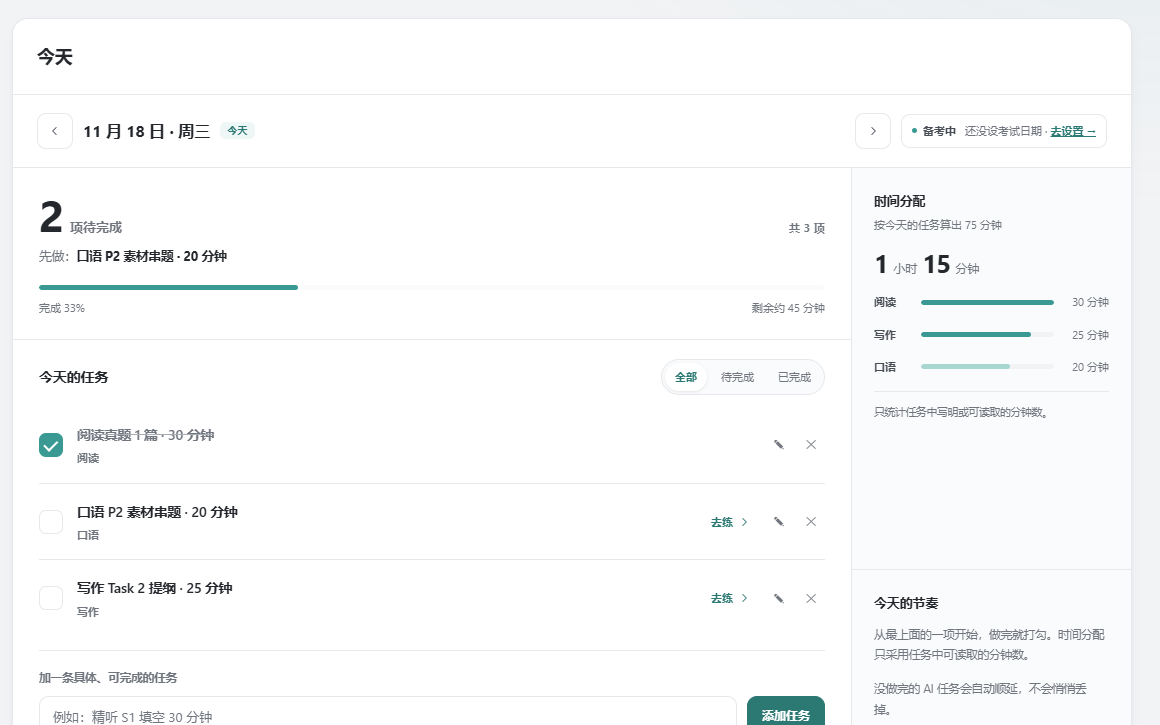
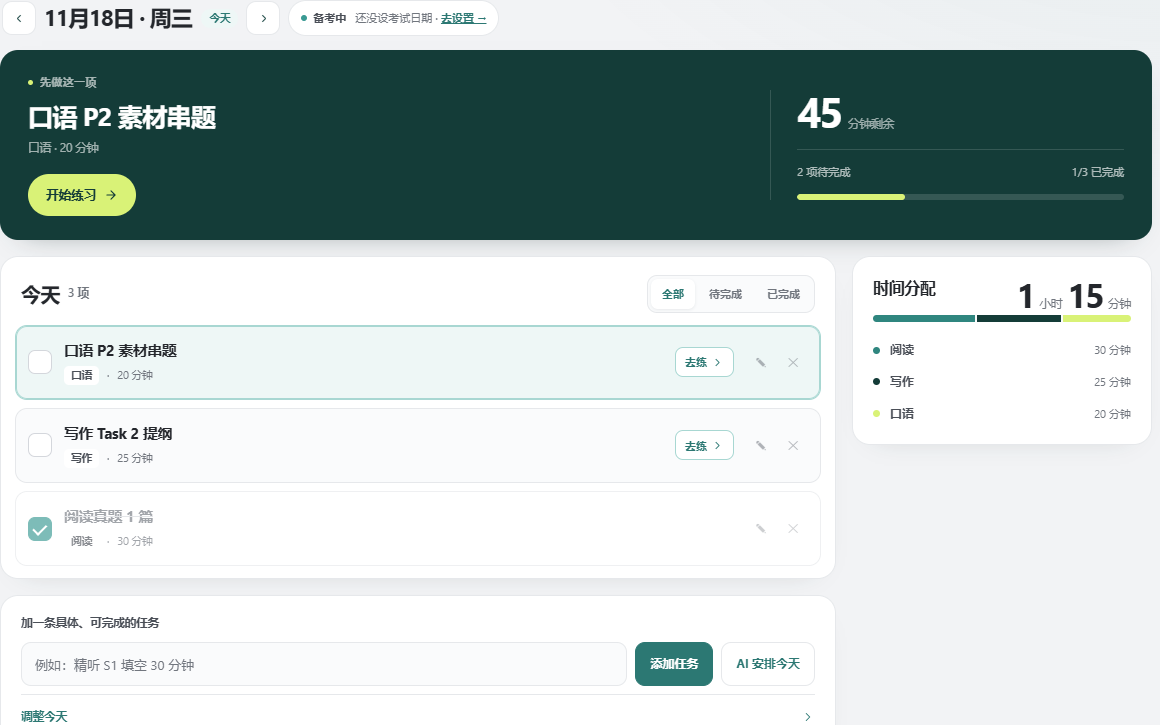
chore(landing): refresh today-plan screenshot and bump cache to v928

diff --git a/sw.js b/sw.js
@@ -1,3 +1,4 @@
+/* 11-18 v928 = LANDING-C-1118D：落地页「今日计划」产品图换成计划页新版真实截图（1160×725，去掉全站侧栏与顶栏），四张图统一 ?v=928；页面结构不动。 */
 /* 11-18 v927 = PLAN-REDESIGN-1118：计划/今天页按新设计稿施工（深绿主卡、待办前置、堆叠时间条、任务行卡化）；其它页面和数据结构不动。 */
 /* 11-18 v926 = LANDING-C-1118C：四张产品截图按 16:10 重裁（1160×725 / 1440×900），去掉固定高度 + cover 裁剪和截图卡顶部假窗口条；展示框跟随原图比例，宽屏与手机不再裁掉内容。 */
 /* 11-18 v925 = LANDING-C-1118B：首屏后的「先别注册，点一题试试」语法题含金量不足，整段删除；首屏副 CTA 改为「看看怎么练 ↓」指向 #today；同步清掉 try/quiz 样式与脚本，页面收为六段。 */
@@ -74,7 +75,7 @@
 // bank.js → 20261012ac（仅 bank.html）。上一版 v409。
 // 注记：当前 CACHE v922 除设置页侧栏外，还含 11-16 AI-QUOTA-3（会员重活逐项 5 次、模考周 10 场、7 天卡 1/4）。
 // 11-16 v884 = BANK-V2：机经五格侧栏（阅读 / 听力 / 记录 / 错题 / 统计），听力中英双行、阅读源数据暂无中文先英文单行、整套收页首、目录扁平化、记录与统计重做空态和数据态、错题本轮只出「即将上线」罩衫、页底「机经是什么？」弹窗；判分与考场零改动。
-const CACHE = 'ielts-hub-v927';  // 11-18 v927 = PLAN-REDESIGN-1118：计划/今天页按新设计稿施工；上一版 v926 修落地页产品截图比例。
+const CACHE = 'ielts-hub-v928';  // 11-18 v928 = 落地页今日计划图换新版真实截图；上一版 v927 施工计划页。
 const _prevCacheNote187 = 'ielts-hub-v871'; // 11-13 v872 = QUOTA-SELFHEAL-1 iPhone Safari 本地存储写不进自救（她 11-13 截图报「保存失败：本地存储空间已满（iPhone Safari 上限约 5MB），自动清理后仍放不下，请在设置导出备份并截图反馈」，原话「这个解决一下」）。根因＝js/data.js hubSave() 把整个 DATA 写单个 HUB_KEY，超 iPhone Safari ~5MB（UTF-16）配额抛 QuotaExceededError，旧兜底只 trimDictationDupes() 一种日志去重，清不动就 alert 挡整页 + 让用户导出备份/截图，且 __hubSaveAlerted 让本会话之后静默失败＝数据其实没存上还不知道。修法全部收在 hubSave/hubLoad 两个既有函数＋5 个新小工具，零 DOM/UI/用户数据删除、不改 DATA 结构、不引入同步读改造：① 保留默写日志去重；② 新增 shedLocalCacheKeys() 按白名单前缀精准清 origin 内纯缓存/草稿键（做题草稿 hub_bank_draft_/full_draft/last_、音量 vol、分栏比例、公告缓存、角色缓存、active），绝不 clear()、绝不碰 HUB_KEY/CREDS_KEY/hub_onboarding_v2/hub_auth_token/hub_device_id/hub_vip_flag_v1，每级清理后重试写盘；③ 仍放不下则 hubOffloadSave() 异步把主 blob 兜底写 IndexedDB（ielts_hub_offload/kv/main）+ 置极小标记，数据仍由 hubSave 末尾既有 scheduleCloudUpload() 上行，不丢；④ alert 换 hubQuotaNotice()＝非阻塞 toast（common.js 提供，缺失降 console.warn）+ 60s 防抖，不再让人干活；⑤ hubLoad 在主 blob 缺失且有标记时 hubOffloadLoad() 异步补回并 dispatch hub:data-merged 触发重渲。参考成熟口径：超限精准清理重试、禁 clear 误删凭证、大体积兜底 IndexedDB（bugnet.io / tutorials.dodatech.com / php.cn）。改 js/data.js 本体＝全站共享，按项目铁律 22 个根 HTML 的 js/data.js?v=20261030a→20261113d 整组同 bump；SW 预缓存裸路径 /js/data.js 不动。本地探针 tests/_probe_quota_fix_1113.cjs 全绿（正常保存走 localStorage / mock setItem 对 HUB_KEY 抛 QuotaExceededError 时触发日志去重＋缓存键清理＋IndexedDB 兜底＋不 alert＋云同步仍调用 / 白名单保护键一个没删 / offload 往返读回 / 22 页串 / node --check / 零双 CR）。发布按 11-09：一个改动一提交、自验全绿直接合 main 上线。
 const _prevCacheNote186 = 'ielts-hub-v870'; // 11-13 v871 = MAT-PROMPT-GENERIC 串题素材总纲重写（她 11-13 原话「我叫你调整串题 Promote……万一其他用户也要导入这样的你总不能帮他也重新做另一段话吧」「Promote 不要强制限定词数和故事个数，我要的就是把能重复利用的故事整合在一起就行了，尽可能少的故事串所有题目」）：「AI 整理成万能素材 / 导入整理」那条提示词 SYS_MAT 只认「一段段生活经历」、还硬卡 2~4 个故事 / 130~180 词 / 190 硬顶 / 3 句万能句 / 5~7 句骨架，用户粘「固定句式＋万能素材＋{ } 换词＋中文逻辑链＋铁律」的结构化背诵卡时套不进去、整理不出来。这次把总纲改成通用版：① 按语义识别两类输入（生活经历 / 结构化背诵卡，各用户措辞不同都认），可混用；② **不限制词数、句子长短、故事 / 卡片个数、万能句与骨架句数、不设字数硬顶**，一切以「能重复利用、尽可能少的故事串住尽可能多的题」为准；③ 结构化卡里的英文原句（含 { } 占位，里面可能是中文提示）一字不改照背、只替换 { } 里的词，不重组语序 / 不翻译 / 不续写，中文逻辑链与铁律进 logicZh / note 遵守；④ coverage 仍宁多勿漏、topic 仍逐字取当季题库清单（前端 normalizeMaterial 依赖），JSON schema 一字不变 → 前端零改动；⑤ importNote / user 尾句同步去掉「规则 5.2 / 连贯大故事 / 按段拆卡」等与照背冲突的旧措辞，storyEn 中文污染自愈也加了花括号占位保护，不会把 { } 里的中文提示改坏。零 DOM / id / 数据 / 判分 / 云同步 / 输入框 / AI 纠正改动；改 materials.js 本体 → materials.html 与 speaking.html 的 js/materials.js?v=20261102d→20261113c 两处同 bump；同笔把 js/sp-story.js 的串题规划 / 成稿提示词也加同一套通用兼容（{ } 占位与照背铁律的固定原句逐字沿用、不强制 110~150 词），speaking.html 的 js/sp-story.js?v=20261023a→20261113c；SW 预缓存清单（裸路径 /js/materials.js / /js/sp-story.js）不动。本地探针 tests/_probe_prompt_v3_1113.cjs 全绿（静态总纲无数字硬限 + 通用识别 + 照背 + schema 仍在；Playwright 实开 materials.html 拦截 callRelay 捕获真实 system/user 提示词核对；零 pageerror）。发布按 11-09：一个改动一提交、自验全绿直接合 main 上线。
 const _prevCacheNote185 = 'ielts-hub-v869'; // 11-13 v870 = REVIEW-REDESIGN-3 回顾模块重新设计（她 11-13 点头「两个我觉得都可以……成绩趋势改成趋势……可以开始改了，给我还原度高一点，改完自己检查一下」第 2 笔）：侧栏 5 项收成 3 项「总览 / 趋势 / 记录」（成绩趋势按她要求改两字「趋势」、四科表现并入总览、学习投入降为默认折叠、考试记录改「记录」），与计划页重复的「今天」待办块收掉、只留「去计划页查看全部」轻链接。重要数据放大：最近一次总分 62px 等宽、四科 2×2 且弱科用 --warn-ink 状态条、一句「先补哪几科」行动带；不再单独展示重复 4 数卡 / 水平标尺 / 距目标分 / 未达标科数，趋势页 4 数卡收成 2 张；四科雷达、连胜 / 最长连续 / 日均 / 累计、12 周热力图、14 天柱状、表现统计与题型 Part 明细全部保留但收进两个默认折叠（reHomeFold / reRecFold），展开即用。实现口径＝零 DOM/id/数据落点/事件绑定删除：js/rv-tabs.js 只改 TABS、老 hash #rv=subjects/effort 落回总览、总览顺带渲染折叠内容；review.html 结构重排 + 页内 style#reRedesign3 高特异度重皮，rvx-data.js 现填的 rvx* id 与 data-rv2-add / rvxWeakGo 委托一个没动；空账号沿用笔8 B 卡，两个折叠在空态不冒出来。颜色全走站点 token 深浅两档、零写死主题色值；改了 js/rv-tabs.js 本体→review.html 引用串 20261109a→20261113b，其余 ?v= 与 SW 预缓存清单全不动。本地探针 tests/_probe_review_v3_1113.cjs 44/44 全绿（静态原文/有数据桌面 19/老 hash/空账号/深色/手机/切 tab/录入弹窗/折叠展开真内容/零 pageerror），改后四态实拍逐张看过、干净。发布按 11-09：一个改动一提交、做完自验直接合 main 上线。

diff --git a/index.html b/index.html
@@ -73,11 +73,11 @@
     <div class="workspace" id="workspace" aria-label="真实产品界面组合预览">
       <div class="desk">
         <div class="desk-bar"><span class="desk-dots"><i></i><i></i><i></i></span>YASIHUB / TODAY<span class="desk-status"><i></i>今天 1 / 3 已完成</span></div>
-        <img class="desk-img" src="img/landing/plans-demo.png?v=926" width="1160" height="725" alt="雅思备考 Hub 的今日计划真实界面，显示三项练习与完成进度" fetchpriority="high">
+        <img class="desk-img" src="img/landing/plans-demo.png?v=928" width="1160" height="725" alt="雅思备考 Hub 的今日计划真实界面，显示三项练习与完成进度" fetchpriority="high">
         <div class="desk-foot"><span>每日清单 · 做完打勾</span><span>界面演示数据</span></div>
       </div>
-      <div class="float-card float-speaking"><img src="img/landing/speaking-materials.png?v=926" width="1160" height="725" alt="口语素材界面局部"><div class="float-body"><div class="float-kicker">SPEAKING P2</div><div class="float-title">一段经历，<br>接住一组话题。</div></div></div>
-      <div class="float-card float-review"><img src="img/landing/review-demo.png?v=926" width="1160" height="725" alt="成绩趋势界面局部"><div class="float-body"><div class="float-kicker">PROGRESS</div><div class="float-title">练过，就留下趋势。</div></div></div>
+      <div class="float-card float-speaking"><img src="img/landing/speaking-materials.png?v=928" width="1160" height="725" alt="口语素材界面局部"><div class="float-body"><div class="float-kicker">SPEAKING P2</div><div class="float-title">一段经历，<br>接住一组话题。</div></div></div>
+      <div class="float-card float-review"><img src="img/landing/review-demo.png?v=928" width="1160" height="725" alt="成绩趋势界面局部"><div class="float-body"><div class="float-kicker">PROGRESS</div><div class="float-title">练过，就留下趋势。</div></div></div>
       <span class="vertical-note">YOUR IELTS STUDY DESK</span>
     </div>
   </div>
@@ -87,15 +87,15 @@
   <div class="wrap">
     <article class="feature reveal" id="today">
       <div class="feature-copy"><span class="feature-no">01 / TODAY</span><h2>今天该练什么，<br>不用临时起意。</h2><p>每天一份清单，每项写清练习内容和时长。从最上面一项开始，做完打勾；没做完的顺延，不会悄悄丢掉。</p><div class="feature-points"><span>每日清单</span><span>手动或 AI 安排</span><span>未完成自动顺延</span></div></div>
-      <div class="feature-visual"><div class="screen"><img src="img/landing/plans-demo.png?v=926" width="1160" height="725" alt="今日计划真实界面，展示阅读、口语和写作任务及时间分配" loading="lazy"><span class="screen-caption">真实页面 · 演示数据</span></div><i class="accent"></i></div>
+      <div class="feature-visual"><div class="screen"><img src="img/landing/plans-demo.png?v=928" width="1160" height="725" alt="今日计划真实界面，展示阅读、口语和写作任务及时间分配" loading="lazy"><span class="screen-caption">真实页面 · 演示数据</span></div><i class="accent"></i></div>
     </article>
     <article class="feature story-card reveal" id="story">
       <div class="feature-copy"><span class="feature-no">02 / SPEAKING</span><h2>52 道题，<br>不用写 52 篇素材。</h2><p>先把自己的经历整理成素材，再看同一段经历能接住哪些当季题。新题来了，不必从零开始背一篇。</p><div class="feature-points"><span>自己的经历</span><span>AI 对照题库</span><span>一段素材串多题</span></div></div>
-      <div class="feature-visual"><div class="screen"><img src="img/landing/speaking-materials.png?v=926" width="1160" height="725" alt="口语素材真实界面，说明用个人经历串起当季口语题" loading="lazy"><span class="screen-caption">真实页面</span></div><i class="accent"></i></div>
+      <div class="feature-visual"><div class="screen"><img src="img/landing/speaking-materials.png?v=928" width="1160" height="725" alt="口语素材真实界面，说明用个人经历串起当季口语题" loading="lazy"><span class="screen-caption">真实页面</span></div><i class="accent"></i></div>
     </article>
     <article class="feature review-card reveal" id="review">
       <div class="feature-copy"><span class="feature-no">03 / PROGRESS</span><h2>练完有没有进步，<br>别凭感觉。</h2><p>模考成绩、四科分数和练习记录收在一处。最近一次考了多少、离目标还差多少、哪一科最弱，打开就知道。</p><div class="feature-points"><span>成绩趋势</span><span>四科弱项</span><span>多设备云同步</span></div></div>
-      <div class="feature-visual"><div class="screen"><img src="img/landing/review-demo.png?v=926" width="1160" height="725" alt="成绩回顾真实界面，展示四科成绩、目标差和上升趋势" loading="lazy"><span class="screen-caption">真实页面 · 演示数据</span></div><i class="accent"></i></div>
+      <div class="feature-visual"><div class="screen"><img src="img/landing/review-demo.png?v=928" width="1160" height="725" alt="成绩回顾真实界面，展示四科成绩、目标差和上升趋势" loading="lazy"><span class="screen-caption">真实页面 · 演示数据</span></div><i class="accent"></i></div>
     </article>
   </div>
 </section>
@@ -108,7 +108,7 @@
       <div class="number"><b>42</b><span>套写作模板</span><small>结构提示 · 骨架首句 · 填空练习</small></div>
     </div>
     <div class="exam-proof reveal">
-      <div class="screen"><img src="img/landing/exam-reading.png?v=926" width="1440" height="900" alt="阅读机考真实界面，左侧文章右侧题目，底部题号导航" loading="lazy"><span class="screen-caption">真实机考界面</span></div>
+      <div class="screen"><img src="img/landing/exam-reading.png?v=928" width="1440" height="900" alt="阅读机考真实界面，左侧文章右侧题目，底部题号导航" loading="lazy"><span class="screen-caption">真实机考界面</span></div>
       <div class="exam-list"><div class="exam-item"><b>左原文，右题目</b><p>在电脑上熟悉真正的做题节奏，而不是只刷手机选择题。</p></div><div class="exam-item"><b>交卷即出分</b><p>答案随题配置，练完不用另找答案册。</p></div><div class="exam-item"><b>成绩进回顾</b><p>做完的每一次，都能回到同一条学习轨迹里。</p></div></div>
     </div>
   </div>

diff --git a/tests/README.md b/tests/README.md
@@ -459,10 +459,12 @@
 - **11-18 追加 v925**：她上线后回看，认为首屏后的「先别注册，点一题试试」用 `would like to + 动词原形` 语法选择题，与整页专业度不匹配、没有展示产品价值。已**整段删除**该 section，不补新的假交互；首屏副 CTA 改为「看看怎么练 ↓」指向 `#today`；同步清掉 `try-*` / `quiz*` 样式和页尾答题脚本。页面收为六段 `hero,features,proof,more,free,final`；探针改为「零 try/quiz 残留 + 副 CTA 指 #today」，本机与线上各 24/0。提交 `35715dce`，SW `v925`。
 - **11-18 追加 v926**：她发现落地页所有产品图都有裁切问题——原图比例和固定展示框不一致，`object-fit:cover` 在不同宽度下把界面裁掉一块，机经卡顶部还多出一条假窗口空白。改法：三张有侧栏的截图按 16:10 重裁为 1160×725，机经图保持 1440×900；全部展示框改为跟随原图比例（`height:auto` + 显式宽高），删除固定高度、`cover` 与 `screen:before` 假窗口条。探针新增「全图按原比例、无 cover、截图贴齐卡片」断言，本机与线上各 24/0。提交 `62cde565`，SW `v926`。
 
-### 11-18 第十四段：计划 / 今天页按 PLAN-REDESIGN-1118 施工（SW v927）
+### 11-18 第十四段：计划 / 今天页按 PLAN-REDESIGN-1118 施工（SW v927 → v928）
 
 - **范围**：只改 `plans.html`、`css/p/plans.css`、`js/plans.js`，其它页面与数据流不动。日期条改成左日期右阶段胶囊；右栏原来的「概况数字」变成主栏顶部的深绿主卡（先做这一项 / 剩余分钟 / 完成度 / 真按钮）；任务卡与添加卡拆成两张；待办在前、已完成置底；时间分配改总时长 + 堆叠条 + 分科行；左栏重复的「今日任务」卡隐藏。
 - **数据口径**：主卡 45 分钟、2 项待完成、1/3、总时长 1 小时 15 分钟，全部按当天 `items` 的 `min` / 标题分钟真算；手写任务按标题关键词补科目（口语 / 写作 / 听力 / 阅读 / 背单词），识别不出就不硬塞。任务行与主卡标题只把末尾「N 分钟」移到副行，正文不改；不做假统计、不编覆盖率。
 - **验收**：`_probe_planredesign_1118.cjs` 36/0，覆盖 1440 / 390 / 360：主卡标题/副行/45 分钟/2 项待完成/1/3、任务计数 3 项、待办在前且第一项高亮、总时长 `1小时15分钟`、3 个分科行 + 3 段堆叠条、输入框宽度、无横溢、零 pageerror、零请求失败；`_probe_planredesign_actions_1118.cjs` 全过：勾选→主卡换下一项、取消勾选恢复、添加任务→4 行/1小时30分钟、筛选待完成 3 行、空日期收起主卡与时间卡、回到今天恢复。深色 1440 另测：主卡 `rgb(15,47,44)`、标题白、卡片 `rgb(26,26,28)`、无横溢。`_probe_landing114_1021.cjs` 仍 24/0，SW bump 不影响落地页六段结构。
+- **v928 收尾**：线上计划页施工后，落地页里的「今日计划」还是旧截图，已用生产页真实截图重裁 1160×725（去掉全站侧栏与顶栏、顶部不留空白），替换 `img/landing/plans-demo.png`；`index.html` 四张图统一 `?v=928`，SW `v928`。落地页探针 24/0（四图引用 `?v=928`、按原比例、无横溢），计划页探针仍 36/0。
 - **回归资产**：新增两支探针（默认在 `tests/` 忽略范围，不进提交）；施工记录见 `design/PLAN-REDESIGN-1118/` 与本段。
+
 
